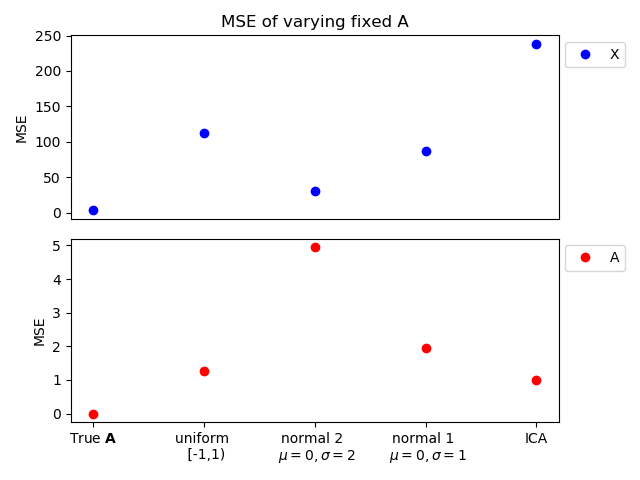
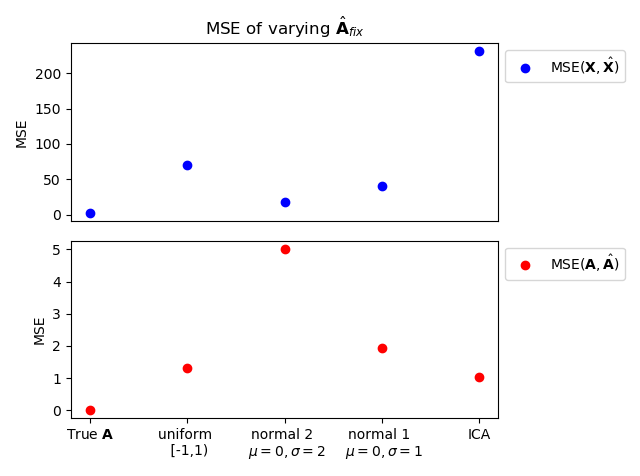
T

diff --git a/Python_kode/EEGdatascript_new/test_scripts/test_vary_A.py b/Python_kode/EEGdatascript_new/test_scripts/test_vary_A.py
@@ -22,7 +22,7 @@ k = 16
 L = 1000 
 n_seg = 1
 
-iterationer = 10
+iterationer = 50
 Xmse_list = np.zeros((5,iterationer))
 Amse_list = np.zeros((5,iterationer))
 
@@ -63,13 +63,13 @@ for j in range(len(Xmse)):
 """ PLOTS """
 plt.figure(1)
 plt.subplot(2, 1, 1)
-plt.title('MSE of varying fixed A')
-plt.plot(Xmse, 'ob', label = 'X')
+plt.title('MSE of varying fixed $\hat{\mathbf{A}}$')
+plt.plot(Xmse, 'ob', label = 'MSE($\mathbf{X},\hat{\mathbf{X}}$)')
 plt.xticks([])
 plt.ylabel('MSE')
 plt.legend(loc='upper left', bbox_to_anchor=(1, 1))
 plt.subplot(2, 1, 2)
-plt.plot(Amse, 'or', label = 'A')
+plt.plot(Amse, 'or', label = 'MSE($\mathbf{A},\hat{\mathbf{A}}$)')
 plt.xticks([0, 1, 2, 3, 4],["True $\mathbf{A}$","uniform \n [-1,1)","normal 2 \n $\mu = 0, \sigma = 2$","normal 1 \n $\mu = 0, \sigma = 1$","ICA"])
 
 plt.ylabel('MSE')
